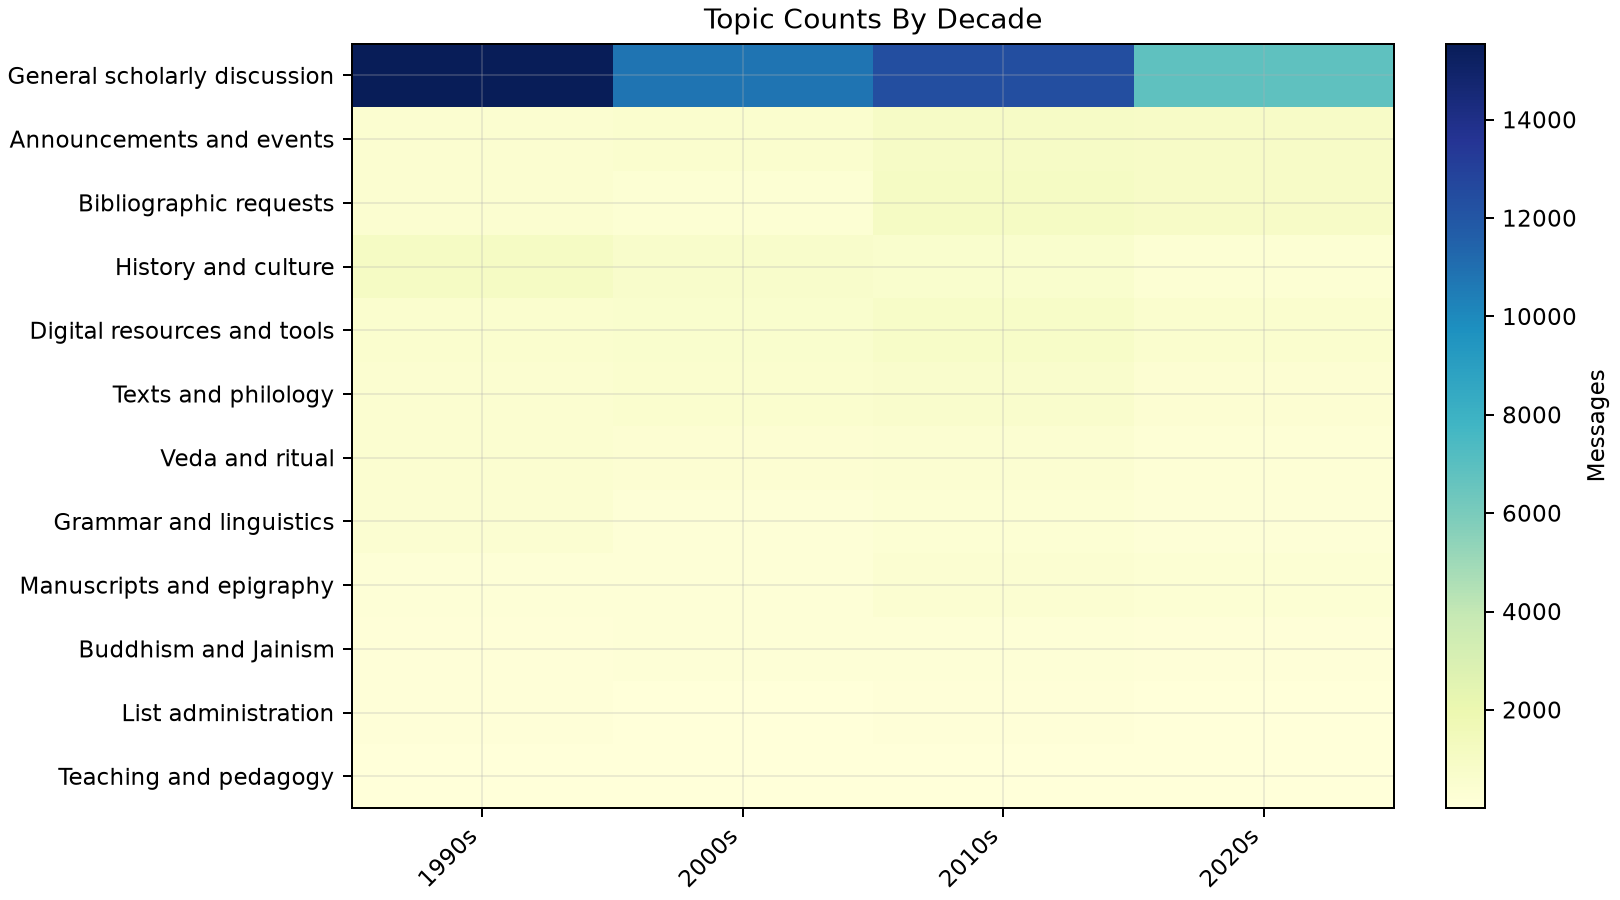
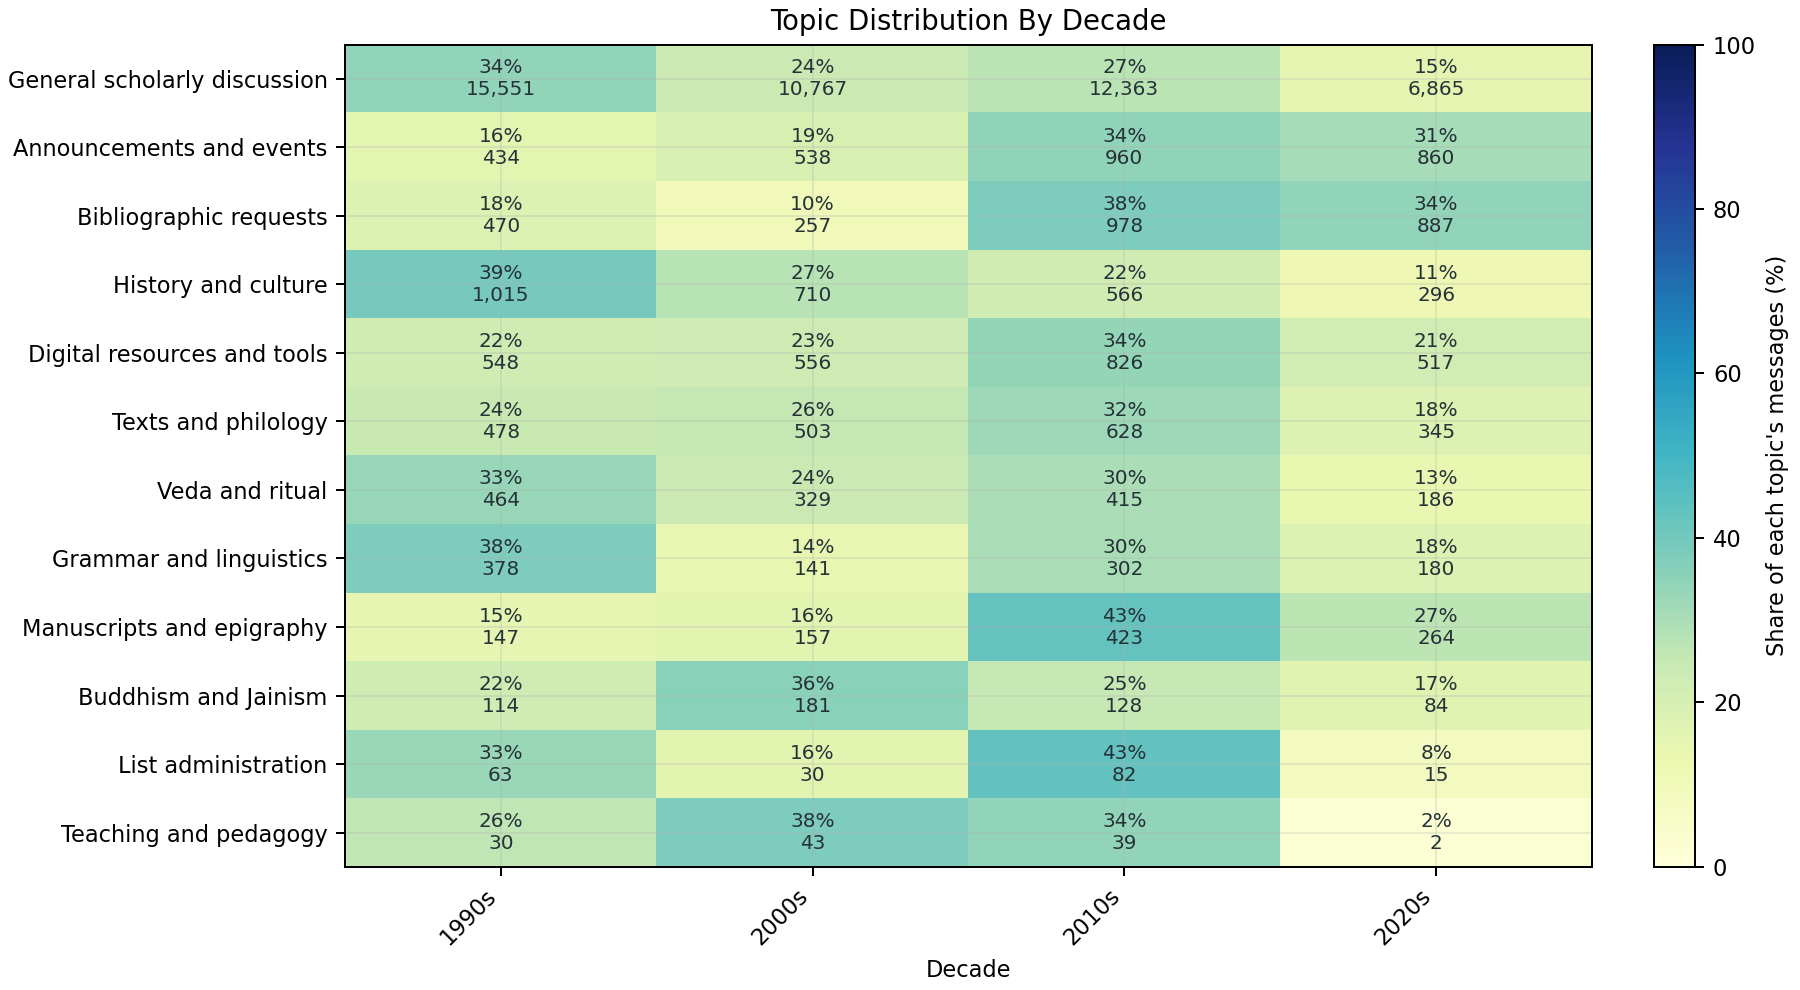
Fix INDOLOGY topic decade heatmap
Changes the topic decade heatmap to color by within-topic decade share and annotate raw counts, making all topic rows readable.

diff --git a/indology_archive_research/analysis.py b/indology_archive_research/analysis.py
@@ -191,12 +191,20 @@ def plot_figures(output_dir: Path, tables: dict[str, pd.DataFrame]) -> None:
     topic_decade = tables["topic_decade_counts"].copy()
     heat = topic_decade.pivot_table(index="primary_topic", columns="decade", values="message_count", aggfunc="sum", fill_value=0)
     heat = heat.loc[heat.sum(axis=1).sort_values(ascending=False).index]
-    fig, ax = plt.subplots(figsize=(9, 5))
-    image = ax.imshow(heat.values, aspect="auto", cmap="YlGnBu")
-    ax.set_title("Topic Counts By Decade")
+    heat_share = heat.div(heat.sum(axis=1).replace(0, pd.NA), axis=0).fillna(0) * 100
+    fig, ax = plt.subplots(figsize=(10, 5.5))
+    image = ax.imshow(heat_share.values, aspect="auto", cmap="YlGnBu", vmin=0, vmax=100)
+    ax.set_title("Topic Distribution By Decade")
     ax.set_yticks(range(len(heat.index)), heat.index)
     ax.set_xticks(range(len(heat.columns)), heat.columns, rotation=45, ha="right")
-    fig.colorbar(image, ax=ax, label="Messages")
+    ax.set_xlabel("Decade")
+    for row_index, topic in enumerate(heat.index):
+        for col_index, decade in enumerate(heat.columns):
+            count = int(heat.loc[topic, decade])
+            share = heat_share.loc[topic, decade]
+            text_color = "white" if share >= 55 else "#253238"
+            ax.text(col_index, row_index, f"{share:.0f}%\n{count:,}", ha="center", va="center", fontsize=8, color=text_color)
+    fig.colorbar(image, ax=ax, label="Share of each topic's messages (%)")
     fig.savefig(figures_dir / "topic_decade_heatmap.png")
     plt.close(fig)
 